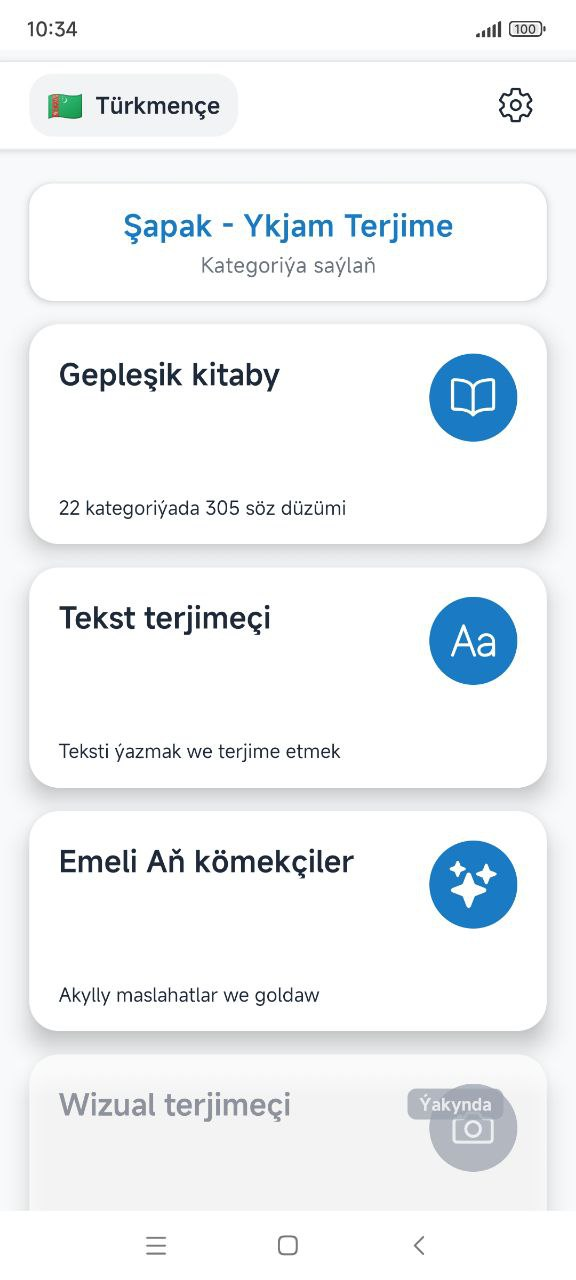
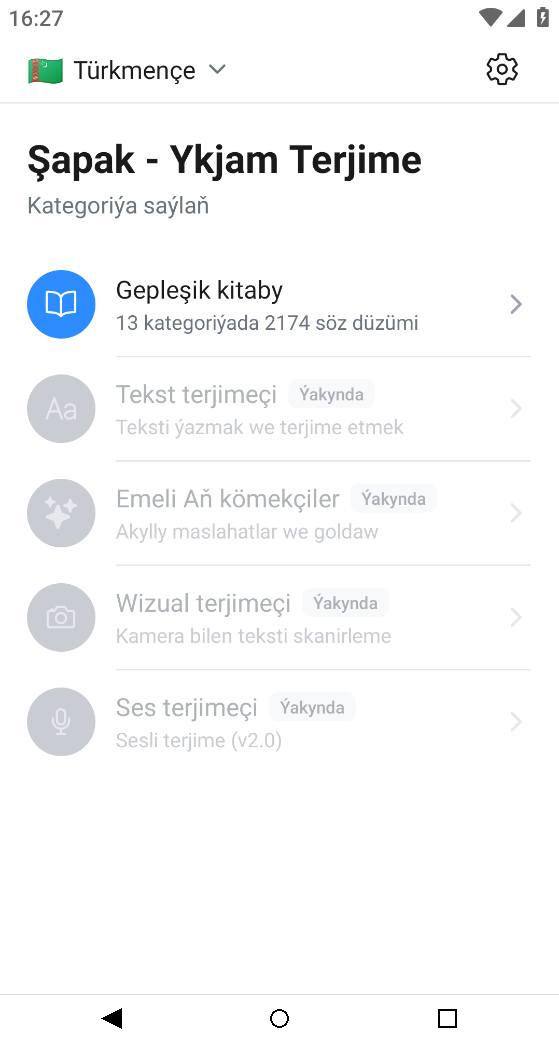
docs: update README with current phrasebook data
- Update phrase count: 293 → 2174 phrases
- Update categories: 22 → 13 (+ ~60 subcategories)
- Update languages: Chinese + Russian (ready), Turkmen (in progress)
- Mark audio as coming back in future (temporarily disabled)
- Update transcription: Pinyin → Cyrillic from book
- Replace 6 screenshots with new ones from current build
- Add 3 more screenshots to README display (now showing all 6)

Closes #1

diff --git a/README.ru.md b/README.ru.md
@@ -1,47 +1,46 @@
 <div align="center">
-
 <img src="./assets/logo.png" alt="Ykjam Terjime" width="120" />
 
 # Ykjam Terjime
 
-**Туркменский разговорник и языковой помощник для 5+ языков**
+Русско-Китайский разговорник: 2174 фразы в 13 категориях
 
-[![License: MIT](https://img.shields.io/badge/License-MIT-yellow.svg)](./LICENSE)
-[![Expo SDK](https://img.shields.io/badge/Expo_SDK-54-000020.svg?logo=expo)](https://expo.dev)
-[![React Native](https://img.shields.io/badge/React_Native-0.81-61DAFB.svg?logo=react)](https://reactnative.dev)
-[![TypeScript](https://img.shields.io/badge/TypeScript-5.9-3178C6.svg?logo=typescript)](https://www.typescriptlang.org)
-[![PRs Welcome](https://img.shields.io/badge/PRs-welcome-brightgreen.svg)](./CONTRIBUTING.md)
+![License](https://img.shields.io/badge/License-MIT-yellow.svg)
+![Expo](https://img.shields.io/badge/Expo_SDK-54-000020.svg?logo=expo)
+![React Native](https://img.shields.io/badge/React_Native-0.81-61DAFB.svg?logo=react)
+![TypeScript](https://img.shields.io/badge/TypeScript-5.9-3178C6.svg?logo=typescript)
+![PRs welcome](https://img.shields.io/badge/PRs-welcome-brightgreen.svg)
 
 [🇬🇧 English](./README.md) · [🇹🇲 Türkmençe](./README.tk.md)
-
 </div>
 
----
+Ykjam Terjime («Готовый перевод» на туркменском) — бесплатный оффлайн-разговорник. Сейчас сфокусирован на русско-китайских фразах: 2174 фразы в 13 категориях, с планами расширения.
 
-**Ykjam Terjime** (*«Готовый перевод»* на туркменском) — бесплатный оффлайн-разговорник и языковой помощник, созданный специально для носителей туркменского языка. Учись и общайся на китайском, русском, английском и турецком — с аудио произношением, избранным, поиском и многим другим.
-
-Часть **[Shapak-Apps](https://github.com/Shapak-Apps)** — первой open-source организации в Туркменистане.
+Часть [Shapak-Apps](https://github.com/Shapak-Apps) — первой open-source организации в Туркменистане.
 
 ## 📱 Скриншоты
 
 <div align="center">
-<img src="./assets/screenshots/1.jpg" width="240" />
-<img src="./assets/screenshots/2.jpg" width="240" />
-<img src="./assets/screenshots/3.jpg" width="240" />
+  <img src="./assets/screenshots/1.jpg" width="240" />
+  <img src="./assets/screenshots/2.jpg" width="240" />
+  <img src="./assets/screenshots/3.jpg" width="240" />
+  <img src="./assets/screenshots/4.jpg" width="240" />
+  <img src="./assets/screenshots/5.jpg" width="240" />
+  <img src="./assets/screenshots/6.jpg" width="240" />
 </div>
 
 ## ✨ Возможности
 
-- 🗣 **293 фразы** в **22 категориях** (50+ подкатегорий)
-- 🌍 **5 языков**: 🇹🇲 туркменский, 🇨🇳 китайский, 🇷🇺 русский, 🇬🇧 английский, 🇹🇷 турецкий
-- 🔊 **306 аудио файлов** с произношением носителей (M4A)
-- 📴 **Полный оффлайн** — работает без интернета
-- 🈲 **Пиньинь-транскрипция** для китайских фраз
-- ⭐ **Избранное, статистика, полнотекстовый поиск**
-- 🎨 **Чистый минималистичный дизайн** (вдохновлён Lingify)
-- 🆓 **100% бесплатно, без рекламы и трекинга**
+- 🗣 **2174 фразы** в 13 категориях (+ ~60 подкатегорий)
+- 🌍 Языки: 🇨🇳 Китайский, 🇷🇺 Русский (готовы); 🇹🇲 Туркменский (в процессе перевода)
+- 📖 Кириллическая транскрипция из книги (для китайских фраз)
+- 📴 Полный оффлайн — работает без интернета
+- ⭐ Избранное, статистика, полнотекстовый поиск
+- 🎨 Чистый минималистичный дизайн (вдохновлён Lingify)
+- 🆓 100% бесплатно, без рекламы и трекинга
+- 🔊 Аудио произношение носителей (вернётся в будущих версиях)
 
-**В версии 2.0:** ещё 25 языков (немецкий, французский, испанский, японский, корейский, арабский и др.), AI-переводчик, визуальный переводчик.
+В версии 2.0: ещё 25 языков (немецкий, французский, испанский, японский, корейский, арабский и др.), AI-переводчик, визуальный переводчик.
 
 ## 🛠 Технологии
 

diff --git a/README.md b/README.md
@@ -1,47 +1,46 @@
 <div align="center">
-
 <img src="./assets/logo.png" alt="Ykjam Terjime" width="120" />
 
 # Ykjam Terjime
 
-**Turkmen phrasebook and language companion for 5+ languages**
+Russian-Chinese phrasebook with 2174 phrases across 13 categories
 
-[![License: MIT](https://img.shields.io/badge/License-MIT-yellow.svg)](./LICENSE)
-[![Expo SDK](https://img.shields.io/badge/Expo_SDK-54-000020.svg?logo=expo)](https://expo.dev)
-[![React Native](https://img.shields.io/badge/React_Native-0.81-61DAFB.svg?logo=react)](https://reactnative.dev)
-[![TypeScript](https://img.shields.io/badge/TypeScript-5.9-3178C6.svg?logo=typescript)](https://www.typescriptlang.org)
-[![PRs Welcome](https://img.shields.io/badge/PRs-welcome-brightgreen.svg)](./CONTRIBUTING.md)
+![License](https://img.shields.io/badge/License-MIT-yellow.svg)
+![Expo](https://img.shields.io/badge/Expo_SDK-54-000020.svg?logo=expo)
+![React Native](https://img.shields.io/badge/React_Native-0.81-61DAFB.svg?logo=react)
+![TypeScript](https://img.shields.io/badge/TypeScript-5.9-3178C6.svg?logo=typescript)
+![PRs welcome](https://img.shields.io/badge/PRs-welcome-brightgreen.svg)
 
 [🇷🇺 По-русски](./README.ru.md) · [🇹🇲 Türkmençe](./README.tk.md)
-
 </div>
 
----
+Ykjam Terjime ("Ready Translation" in Turkmen) is a free, offline-first phrasebook and language companion. Currently focused on Russian-Chinese phrases with 2174 phrases across 13 categories, with more languages coming.
 
-**Ykjam Terjime** (*"Ready Translation"* in Turkmen) is a free, offline-first phrasebook and language companion built specifically for Turkmen speakers. Learn and communicate in Chinese, Russian, English, Turkish — with pronunciation audio, favorites, search, and more.
-
-Part of **[Shapak-Apps](https://github.com/Shapak-Apps)** — the first open-source organization in Turkmenistan.
+Part of [Shapak-Apps](https://github.com/Shapak-Apps) — the first open-source organization in Turkmenistan.
 
 ## 📱 Screenshots
 
 <div align="center">
-<img src="./assets/screenshots/1.jpg" width="240" />
-<img src="./assets/screenshots/2.jpg" width="240" />
-<img src="./assets/screenshots/3.jpg" width="240" />
+  <img src="./assets/screenshots/1.jpg" width="240" />
+  <img src="./assets/screenshots/2.jpg" width="240" />
+  <img src="./assets/screenshots/3.jpg" width="240" />
+  <img src="./assets/screenshots/4.jpg" width="240" />
+  <img src="./assets/screenshots/5.jpg" width="240" />
+  <img src="./assets/screenshots/6.jpg" width="240" />
 </div>
 
 ## ✨ Features
 
-- 🗣 **293 phrases** across **22 categories** (50+ subcategories)
-- 🌍 **5 languages** available: 🇹🇲 Turkmen, 🇨🇳 Chinese, 🇷🇺 Russian, 🇬🇧 English, 🇹🇷 Turkish
-- 🔊 **306 audio files** with native pronunciation (M4A)
-- 📴 **Fully offline** — works without internet
-- 🈲 **Pinyin transcription** for Chinese phrases
-- ⭐ **Favorites, statistics, full-text search**
-- 🎨 **Clean, minimalist design** (Lingify-inspired)
-- 🆓 **100% free, no ads, no tracking**
+- 🗣 **2174 phrases** across 13 categories (+ ~60 subcategories)
+- 🌍 Languages: 🇨🇳 Chinese, 🇷🇺 Russian (ready); 🇹🇲 Turkmen (in progress)
+- 📖 Cyrillic transcription from the book (for Chinese phrases)
+- 📴 Fully offline — works without internet
+- ⭐ Favorites, statistics, full-text search
+- 🎨 Clean, minimalist design (Lingify-inspired)
+- 🆓 100% free, no ads, no tracking
+- 🔊 Native pronunciation audio (coming back in future)
 
-**Coming in v2.0:** 25 more languages (German, French, Spanish, Japanese, Korean, Arabic, and more), AI-powered translator, visual translator.
+Coming in v2.0: 25 more languages (German, French, Spanish, Japanese, Korean, Arabic, and more), AI-powered translator, visual translator.
 
 ## 🛠 Tech Stack
 

diff --git a/README.tk.md b/README.tk.md
@@ -1,47 +1,46 @@
 <div align="center">
-
 <img src="./assets/logo.png" alt="Ykjam Terjime" width="120" />
 
 # Ykjam Terjime
 
-**Türkmençe üçin 5+ dilde gepleşik kitaby we dil kömekçisi**
+Rus-Hytaý gepleşik kitaby: 13 kategoriýada 2174 fraza
 
-[![License: MIT](https://img.shields.io/badge/License-MIT-yellow.svg)](./LICENSE)
-[![Expo SDK](https://img.shields.io/badge/Expo_SDK-54-000020.svg?logo=expo)](https://expo.dev)
-[![React Native](https://img.shields.io/badge/React_Native-0.81-61DAFB.svg?logo=react)](https://reactnative.dev)
-[![TypeScript](https://img.shields.io/badge/TypeScript-5.9-3178C6.svg?logo=typescript)](https://www.typescriptlang.org)
-[![PRs Welcome](https://img.shields.io/badge/PRs-welcome-brightgreen.svg)](./CONTRIBUTING.md)
+![License](https://img.shields.io/badge/License-MIT-yellow.svg)
+![Expo](https://img.shields.io/badge/Expo_SDK-54-000020.svg?logo=expo)
+![React Native](https://img.shields.io/badge/React_Native-0.81-61DAFB.svg?logo=react)
+![TypeScript](https://img.shields.io/badge/TypeScript-5.9-3178C6.svg?logo=typescript)
+![PRs welcome](https://img.shields.io/badge/PRs-welcome-brightgreen.svg)
 
 [🇬🇧 English](./README.md) · [🇷🇺 По-русски](./README.ru.md)
-
 </div>
 
----
+Ykjam Terjime — mugt, oflaýn işleýän gepleşik kitaby. Häzirki wagtda rus-hytaý frazalaryna üns berilýär: 13 kategoriýada 2174 fraza, geljekde has köp dil goşular.
 
-**Ykjam Terjime** türkmen dilinde gepleýänler üçin döredilen mugt, oflaýn işleýän gepleşik kitaby we dil kömekçisidir. Hytaý, rus, iňlis we türk dillerinde öwren we gürleş — ses aýdylyşy, halan fralarym, gözleg we başga-da köp funksiýalar bilen.
-
-**[Shapak-Apps](https://github.com/Shapak-Apps)** — Türkmenistanyň ilkinji açyk kodly (open-source) guramasynyň bir bölegi.
+[Shapak-Apps](https://github.com/Shapak-Apps) — Türkmenistanyň ilkinji açyk kodly guramasynyň bir bölegi.
 
 ## 📱 Ekran şekilleri
 
 <div align="center">
-<img src="./assets/screenshots/1.jpg" width="240" />
-<img src="./assets/screenshots/2.jpg" width="240" />
-<img src="./assets/screenshots/3.jpg" width="240" />
+  <img src="./assets/screenshots/1.jpg" width="240" />
+  <img src="./assets/screenshots/2.jpg" width="240" />
+  <img src="./assets/screenshots/3.jpg" width="240" />
+  <img src="./assets/screenshots/4.jpg" width="240" />
+  <img src="./assets/screenshots/5.jpg" width="240" />
+  <img src="./assets/screenshots/6.jpg" width="240" />
 </div>
 
 ## ✨ Mümkinçilikler
 
-- 🗣 **293 fraza** — **22 kategoriýada** (50+ kiçi kategoriýa)
-- 🌍 **5 dil**: 🇹🇲 türkmen, 🇨🇳 hytaý, 🇷🇺 rus, 🇬🇧 iňlis, 🇹🇷 türk
-- 🔊 **306 ses faýly** — ene dilinde aýdylyşy (M4A)
-- 📴 **Doly oflaýn** — internet gerek däl
-- 🈲 **Pinyin transkripsiýasy** hytaý frazalary üçin
-- ⭐ **Halanlar, statistika, doly tekst gözlegi**
-- 🎨 **Arassa, minimalistik dizaýn** (Lingify stilinde)
-- 🆓 **100% mugt, mahabatsyz, yzarlamasyz**
+- 🗣 **2174 fraza** — 13 kategoriýada (+ ~60 kiçi kategoriýa)
+- 🌍 Diller: 🇨🇳 Hytaý, 🇷🇺 Rus (taýýar); 🇹🇲 Türkmen (terjime işlenilýär)
+- 📖 Kitapdan alynýan kiril transkripsiýasy (hytaý frazalary üçin)
+- 📴 Doly oflaýn — internet gerek däl
+- ⭐ Halanlar, statistika, doly tekst gözlegi
+- 🎨 Arassa, minimalistik dizaýn (Lingify stilinde)
+- 🆓 100% mugt, mahabatsyz, yzarlamasyz
+- 🔊 Ene dilinde ses aýdylyşy (geljekki wersiýalarda gaýdyp geler)
 
-**v2.0 wersiýasynda:** ýene 25 dil (nemes, fransuz, ispan, ýapon, koreý, arap we başg.), AI-terjimeçi, wizual terjimeçi.
+v2.0 wersiýasynda: ýene 25 dil (nemes, fransuz, ispan, ýapon, koreý, arap we başg.), AI-terjimeçi, wizual terjimeçi.
 
 ## 🛠 Tehnologiýalar
 
